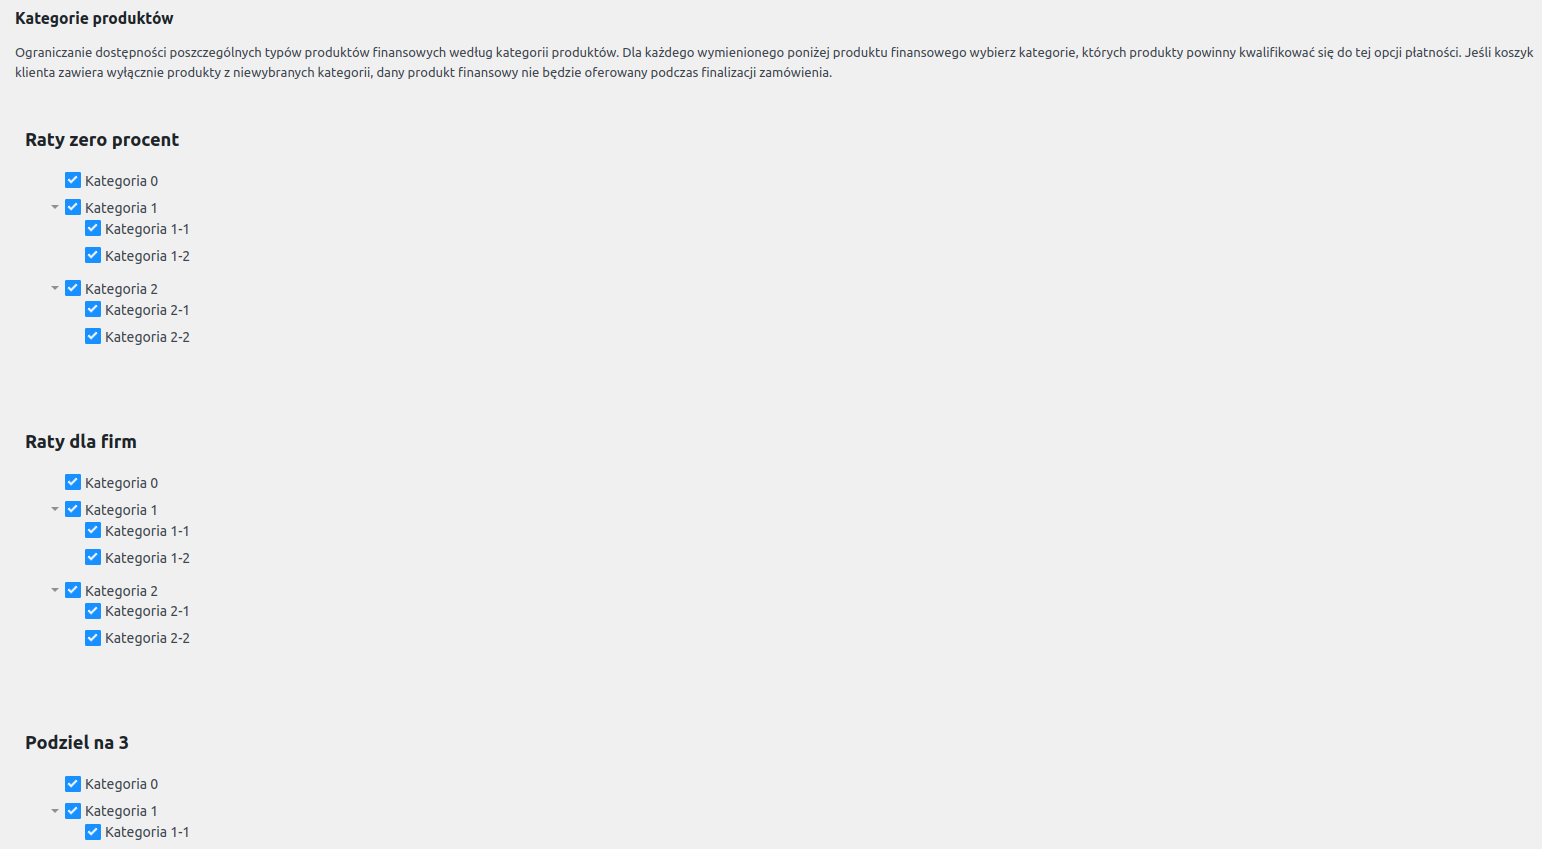
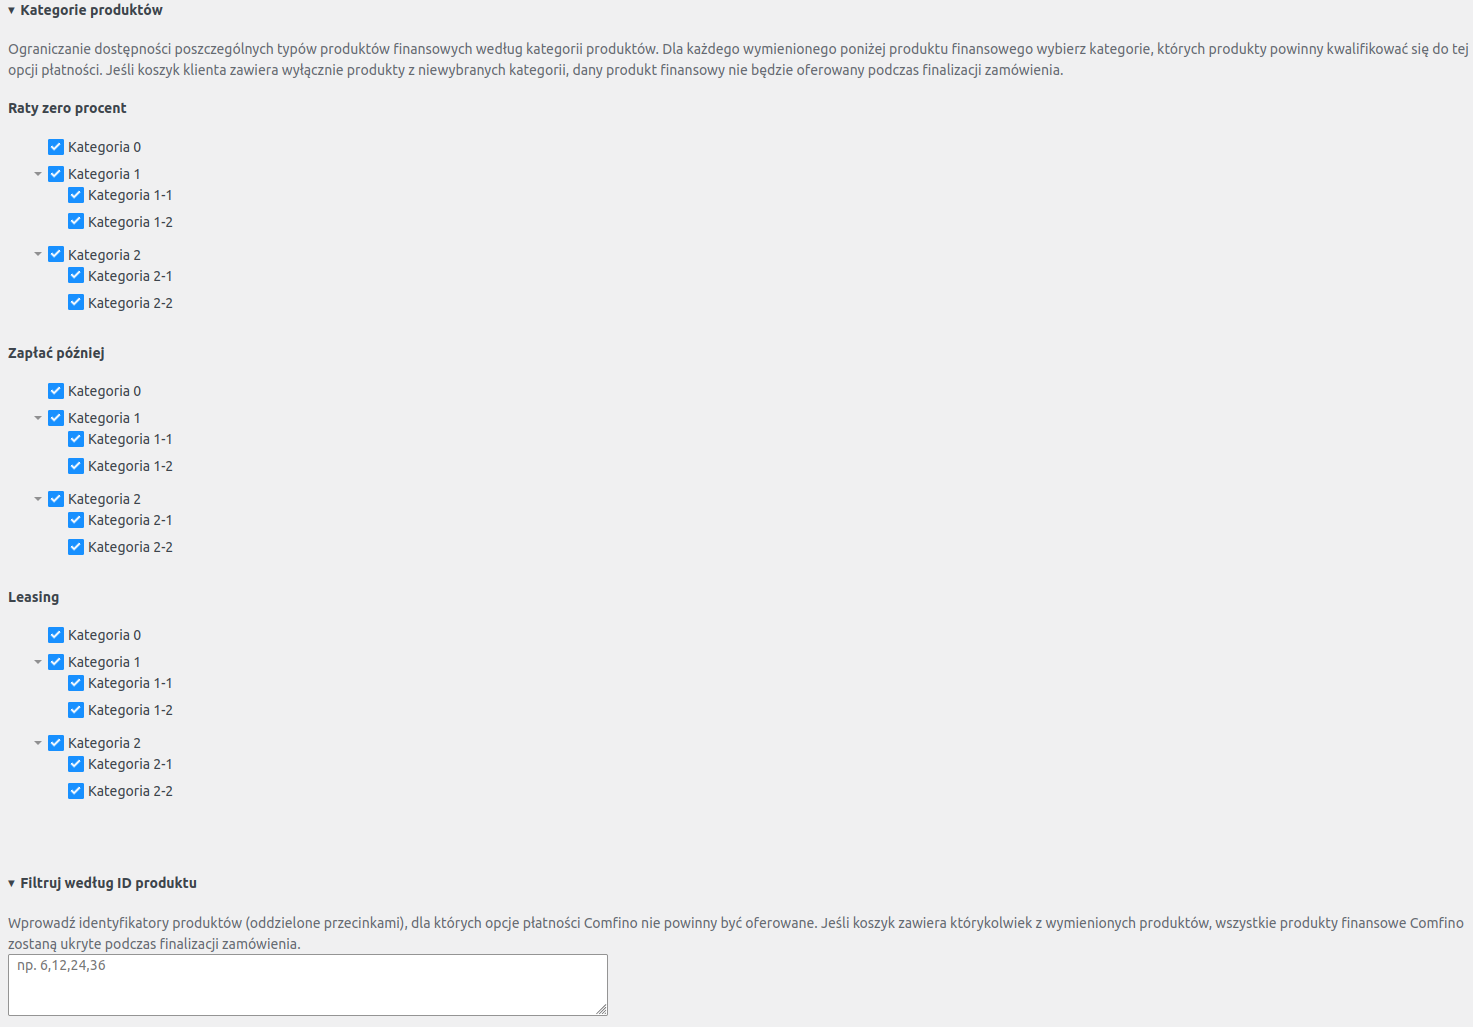
FN-14460 Improving documentation

Changed region(s): [[0.0, 0.0, 0.9993, 0.7962], [0.0, 0.8575, 0.9993, 1.0]]

diff --git a/docs/comfino.pl.md b/docs/comfino.pl.md
@@ -53,6 +53,14 @@ Reguły dostępności produktów finansowych (filtry kategorii produktowych) umo
 
 Domyślnie płatności Comfino są dostępne bezwarunkowo dla wszystkich typów produktów. W celu wyłączenia Comfino dla wybranych typów produktów należy odznaczyć odpowiednie kategorie w drzewie kategorii dla każdego typu oferty finansowej i kliknąć "Zapisz".
 
+**Filtruj według ID produktu**
+
+Filtr po ID produktu umożliwia wykluczenie płatności Comfino dla konkretnych produktów, niezależnie od ich kategorii. W polu tekstowym należy wpisać identyfikatory (ID) produktów oddzielone przecinkami (np. `15, 17`) i kliknąć "Zapisz". Jest to jedna wspólna lista obowiązująca wszystkie typy produktów finansowych.
+
+Jeśli w koszyku klienta znajdzie się którykolwiek z wymienionych produktów, wszystkie płatności Comfino zostaną ukryte, zarówno podczas finalizacji zamówienia (paywall), jak i w widgecie promocyjnym na stronie produktu. Pozostawienie pola pustego oznacza, że filtr jest nieaktywny i żaden produkt nie jest wykluczany na jego podstawie.
+
+Filtr po ID produktu działa niezależnie od filtrów kategorii produktowych.
+
 ![Konfiguracja](images/pl/configuration2b.png "Konfiguracja")
 
 **USTAWIENIA WIDGETU**

diff --git a/docs/comfino.en.md b/docs/comfino.en.md
@@ -54,6 +54,14 @@ Financial product availability rules (product category filters) enable Comfino p
 
 By default, Comfino payments are available unconditionally for all product types. To disable Comfino for selected product types, uncheck the appropriate categories in the category tree for each type of financial offer and click "Save".
 
+**Filter by product ID**
+
+The product ID filter lets you exclude Comfino payments for specific products, regardless of their category. In the text field, enter the product IDs separated by commas (e.g. `15, 17`) and click "Save". This is a single shared list that applies to all financial product types.
+
+If the customer's cart contains any of the listed products, all Comfino payments will be hidden, both at checkout (paywall) and in the promotional widget on the product page. Leaving the field empty means the filter is inactive and no product is excluded based on it.
+
+The product ID filter works independently of the product category filters.
+
 ![Configuration](images/en/configuration2b.png "Konfiguracja")
 
 **WIDGET SETTINGS**
